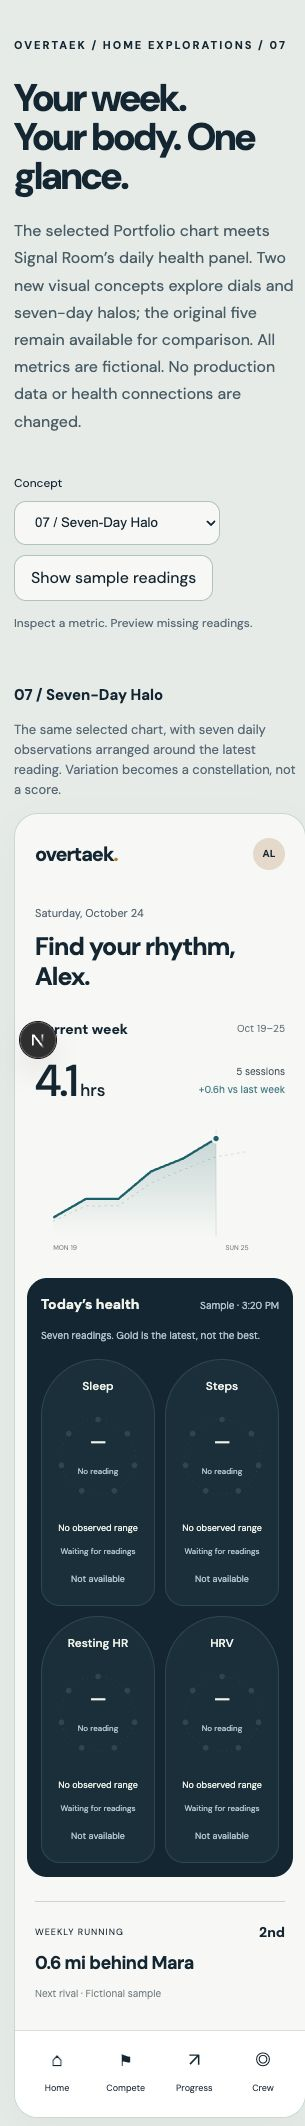
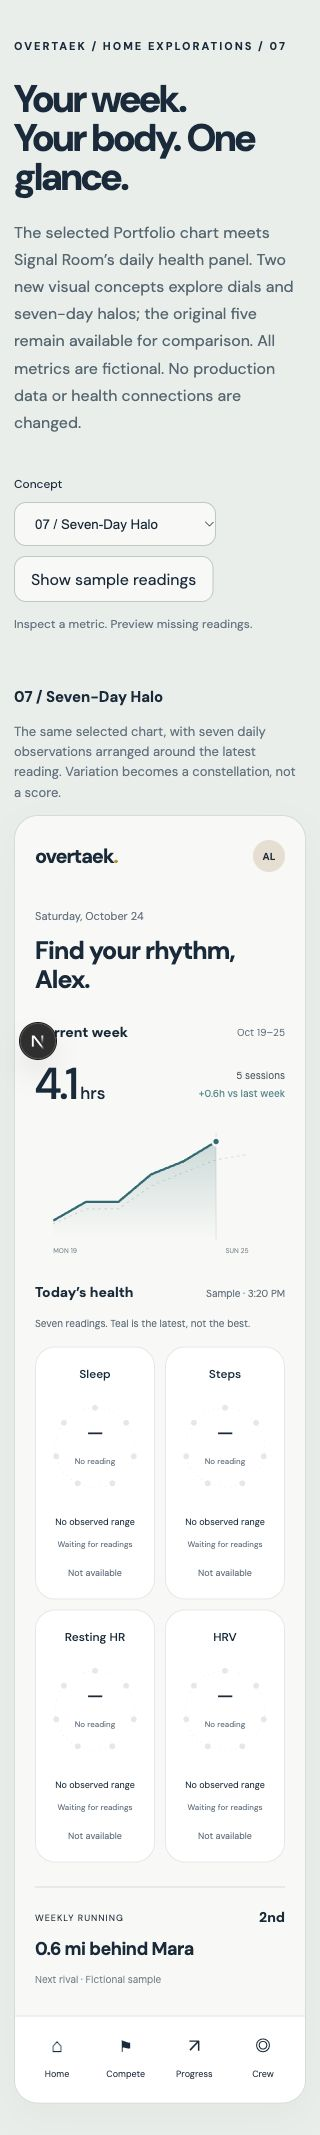
Retheme health concepts to match the light Home palette

diff --git a/apps/web/src/app/design/home-health/study.css b/apps/web/src/app/design/home-health/study.css
@@ -1,26 +1,28 @@
-.health-study{--study-ink:#142b3b;--study-paper:#f8f9f6;--study-accent:#176c75;color:var(--study-ink);background:#e9eeeb;min-height:100dvh;padding:64px 28px;font-family:var(--font-body),sans-serif}.health-study *{box-sizing:border-box}.health-study-intro{max-width:780px;margin:0 auto 36px}.study-eyebrow{font-size:11px;letter-spacing:2px;font-weight:700}.health-study h1{font-size:clamp(38px,5vw,70px);line-height:1.02;letter-spacing:-3px;margin:22px 0}.health-study-intro p{max-width:600px;line-height:1.7;color:#536872}.health-study-controls{display:flex;align-items:end;gap:16px;flex-wrap:wrap;max-width:1280px;margin:0 auto 36px}.health-study-controls label{display:grid;gap:6px;font-size:12px}.health-study-controls select,.health-study-controls button{min-height:44px;padding:10px 16px;border:1px solid #b9c9c4;background:#f8f9f6;border-radius:12px;color:#142b3b}.health-study-controls>span{font-size:12px;padding-bottom:12px;color:#637482}.health-study button:focus-visible,.health-study select:focus-visible{outline:3px solid #c18f1f;outline-offset:3px}.health-study-grid{display:grid;grid-template-columns:repeat(auto-fit,minmax(320px,1fr));gap:32px;max-width:1280px;margin:auto}.health-study-grid.focused{max-width:410px}.concept-caption{min-height:100px}.concept-caption>span{font-size:15px;font-weight:700}.concept-caption p{font-size:13px;line-height:1.55;color:#637482;max-width:360px}.concept-phone{max-width:410px;margin:auto;position:relative;overflow:hidden;border-radius:32px;border:1px solid #d1dcd7;background:var(--study-paper);box-shadow:0 15px 40px #16392b0a;padding:24px 20px 0;min-height:820px}.health-shell{display:flex;justify-content:space-between;align-items:center;font-size:20px;font-weight:700;letter-spacing:-1px}.brand-dot{color:#c18f1f}.sample-avatar{font-size:10px;letter-spacing:0;border-radius:50%;width:32px;height:32px;display:grid;place-items:center;background:#e8ded0;color:#142b3b}.health-greeting{margin:30px 0 26px}.health-greeting>span{font-size:11px;color:#637482}.health-greeting h2{font-size:25px;line-height:1.18;letter-spacing:-.8px;max-width:230px;margin:7px 0}.training-title,.vitals-title{display:flex;justify-content:space-between;align-items:center;gap:8px}.training-title h3,.vitals-title h3{font-size:14px;margin:0}.training-title>span,.vitals-title>span{font-size:10px;opacity:.65}.training-total{display:flex;align-items:center;justify-content:space-between;gap:8px;margin:18px 0 8px}.training-total>strong{font-size:44px;font-weight:500;letter-spacing:-2px;line-height:1}.training-total>strong>span{font-size:17px;letter-spacing:0}.training-total>span{text-align:right;font-size:10px;line-height:1.8;opacity:.8}.training-total b{font-weight:500;color:var(--study-accent)}.health-training>svg{display:block;width:100%;height:auto;margin:12px 0 0;overflow:visible}.svg-caption{font-family:var(--font-body),sans-serif;fill:currentColor;font-size:9px;opacity:.6}.health-day-picker{display:flex;justify-content:space-between;margin-top:10px;gap:2px}.health-day-picker button{height:44px;min-width:30px;border:0;background:transparent;border-radius:20px;color:inherit;font-size:10px}.health-day-picker button[aria-pressed=true]{background:var(--study-accent);color:white}.training-receipt{font-size:10px;opacity:.7;text-align:center;min-height:22px;margin:6px 0 0}.health-vitals{margin:26px 0 20px}.health-metrics{display:grid;gap:12px;margin-top:15px}.health-metric{font-family:inherit;text-align:left;color:inherit;border:0;background:transparent;cursor:pointer;position:relative;min-height:58px;display:grid;grid-template-columns:20px 1fr auto;align-items:center;gap:0 8px;padding:10px 0;border-bottom:1px solid #dce4df}.metric-symbol{grid-row:span 2;font-size:21px;color:var(--study-accent)}.metric-name{font-size:12px;font-weight:500}.health-metric strong{font-size:20px;font-weight:500;letter-spacing:-.5px;grid-column:3;grid-row:1}.metric-unit{font-size:9px;opacity:.65;grid-column:2/-1}.health-detail{font-size:12px;background:#e8eeea;padding:14px;border-radius:12px;margin:12px 0;line-height:1.5}.health-detail p{margin:6px 0}.health-detail>span{font-size:10px;opacity:.7}.health-rival{padding:18px 0 24px;border-top:1px solid #d0dad7;display:grid;gap:7px;margin-top:24px}.health-rival>span{font-size:9px;letter-spacing:1px}.health-rival b{float:right;font-size:14px;letter-spacing:0}.health-rival strong{font-size:18px;letter-spacing:-.5px}.health-rival small{font-size:10px;opacity:.6}.health-tabs{display:flex;justify-content:space-between;margin:0 -20px;padding:17px 22px;background:#fff;border-top:1px solid #dce4df;text-align:center}.health-tabs>b,.health-tabs>span{display:grid;gap:4px;font-size:18px;min-width:40px}.health-tabs span span,.health-tabs b span,.health-tabs small{font-size:9px;font-weight:400}.orbit{--study-accent:#9b7737;--study-paper:#fbf9f3}.orbit .health-greeting{text-align:center}.orbit .health-greeting h2{max-width:none}.orbit .training-total{display:none}.orbit .health-metrics{grid-template-columns:1fr 1fr;gap:18px}.orbit .health-metric{display:flex;flex-direction:column;text-align:center;gap:6px;border:0;padding:18px 5px;min-height:122px;background:#f1ede3;border-radius:60% 60% 40% 40%}.orbit .metric-symbol{font-size:22px}.orbit .health-metric strong{font-size:24px}.orbit-value{font-size:52px;fill:currentColor;letter-spacing:-2px}.orbit .metric-orbit{width:20px;height:2px;background:#c4ac79;border-radius:1px;margin-top:3px}.ledger{--study-accent:#c99227;--study-paper:#fff}.ledger .concept-phone{border-radius:4px}.ledger .health-greeting h2{font-size:34px;letter-spacing:-1.5px}.ledger .training-title{border-bottom:2px solid #142b3b;padding-bottom:12px}.ledger .health-metrics{gap:0}.ledger .health-metric{grid-template-columns:1fr 1fr;min-height:50px}.ledger .metric-symbol{display:none}.ledger .health-metric strong{grid-column:2;text-align:right}.ledger .metric-unit{grid-column:1/-1}.ledger .health-training{border-bottom:1px solid #142b3b;padding-bottom:12px}.pulse{--study-accent:#f7c948;--study-paper:#142b3b}.pulse .concept-phone{color:#f0f4ec;border-color:#234453}.pulse .health-greeting>span{color:#9ab0b9}.pulse .health-metrics{grid-template-columns:1fr 1fr;gap:10px}.pulse .health-metric{padding:14px;display:flex;align-items:start;flex-direction:column;gap:7px;min-height:128px;border:1px solid #31505a;background:#1b3644;border-radius:12px}.pulse .metric-symbol{position:absolute;right:12px;top:12px;font-size:17px}.pulse .health-metric strong{font-size:27px}.pulse .health-metric svg{width:60px;height:28px;position:absolute;right:10px;bottom:14px;opacity:.6}.pulse .health-detail{background:#24414c}.pulse .health-tabs{background:#142b3b;border-color:#31505a}.pulse .health-rival{border-color:#31505a}.pulse .health-day-picker button[aria-pressed=true]{color:#142b3b}.signal-grid{display:flex;gap:8px;margin:26px 0 18px}.signal-grid>div{display:grid;flex:1;gap:7px;grid-template-rows:15px repeat(3,21px)}.signal-grid b{text-align:center;font-size:9px;font-weight:400;opacity:.7}.signal-grid span:not(.signal-axis span){background:#24414c;border-radius:4px}.signal-grid span.lit{background:#f7c948!important}.signal-grid>.signal-axis{flex:0 0 20px;font-size:8px;align-items:center;grid-template-rows:15px repeat(3,21px)}.signal-axis:before{content:""}.tempo{--study-accent:#176c75;--study-paper:#f0f5f2}.tempo .health-greeting h2{font-size:30px;max-width:190px}.tempo-week{display:flex;gap:4px;margin-top:24px}.tempo-week>div{flex:1;text-align:center;font-size:9px;padding:10px 2px;background:#e5ede7;border-radius:20px}.tempo-week>div.selected{background:#d3e5d9}.tempo-week b{display:block;font-size:17px;margin-top:4px}.tempo-track{height:125px;position:relative;border-left:1px solid #142b3b15;margin:12px 0 8px}.tempo-track i{position:absolute;left:25%;width:55%;border-radius:10px;background:#176c75}.tempo-week small{font-size:8px;opacity:.7}.tempo .health-metrics{grid-template-columns:repeat(4,1fr);gap:0;background:#fff;border-radius:16px;padding:15px 5px}.tempo .health-metric{display:flex;flex-direction:column;align-items:center;text-align:center;padding:0 2px;border:0;border-right:1px solid #e3e9e7;gap:8px;min-height:90px}.tempo .health-metric:last-child{border:0}.tempo .health-metric strong{font-size:17px;letter-spacing:-.6px}.tempo .metric-name{font-size:9px}.tempo .metric-unit{font-size:8px}.tempo .metric-symbol{font-size:19px}.tempo .health-rival{background:#176c75;color:white;margin:18px -20px 0;padding:22px 20px}.tempo .health-tabs{margin-top:0}@media(max-width:500px){.health-study{padding:32px 14px}.health-study h1{letter-spacing:-1.5px}.health-study-grid{grid-template-columns:minmax(0,1fr)}.concept-caption{min-height:90px}.concept-phone{border-radius:24px}.health-study-controls{gap:10px}.health-study-controls>span{width:100%}.health-metric{min-height:64px}}@media(prefers-reduced-motion:reduce){.health-study *{scroll-behavior:auto!important}}
+.health-study{--study-ink:#142b3b;--study-paper:#f8f9f6;--study-accent:#176c75;color:var(--study-ink);background:#e9eeeb;min-height:100dvh;padding:64px 28px;font-family:var(--font-body),sans-serif}.health-study *{box-sizing:border-box}.health-study-intro{max-width:780px;margin:0 auto 36px}.study-eyebrow{font-size:11px;letter-spacing:2px;font-weight:700}.health-study h1{font-size:clamp(38px,5vw,70px);line-height:1.02;letter-spacing:-3px;margin:22px 0}.health-study-intro p{max-width:600px;line-height:1.7;color:#536872}.health-study-controls{display:flex;align-items:end;gap:16px;flex-wrap:wrap;max-width:1280px;margin:0 auto 36px}.health-study-controls label{display:grid;gap:6px;font-size:12px}.health-study-controls select,.health-study-controls button{min-height:44px;padding:10px 16px;border:1px solid #b9c9c4;background:#f8f9f6;border-radius:12px;color:#142b3b}.health-study-controls>span{font-size:12px;padding-bottom:12px;color:#637482}.health-study button:focus-visible,.health-study select:focus-visible{outline:3px solid #c18f1f;outline-offset:3px}.health-study-grid{display:grid;grid-template-columns:repeat(auto-fit,minmax(320px,1fr));gap:32px;max-width:1280px;margin:auto}.health-study-grid.focused{max-width:410px}.concept-caption{min-height:100px}.concept-caption>span{font-size:15px;font-weight:700}.concept-caption p{font-size:13px;line-height:1.55;color:#637482;max-width:360px}.concept-phone{max-width:410px;margin:auto;position:relative;overflow:hidden;border-radius:32px;border:1px solid #d1dcd7;background:var(--study-paper);box-shadow:0 15px 40px #16392b0a;padding:24px 20px 0;min-height:820px}.health-shell{display:flex;justify-content:space-between;align-items:center;font-size:20px;font-weight:700;letter-spacing:-1px}.brand-dot{color:#c18f1f}.sample-avatar{font-size:10px;letter-spacing:0;border-radius:50%;width:32px;height:32px;display:grid;place-items:center;background:#e8ded0;color:#142b3b}.health-greeting{margin:30px 0 26px}.health-greeting>span{font-size:11px;color:#637482}.health-greeting h2{font-size:25px;line-height:1.18;letter-spacing:-.8px;max-width:230px;margin:7px 0}.training-title,.vitals-title{display:flex;justify-content:space-between;align-items:center;gap:8px}.training-title h3,.vitals-title h3{font-size:14px;margin:0}.training-title>span,.vitals-title>span{font-size:10px;opacity:.65}.training-total{display:flex;align-items:center;justify-content:space-between;gap:8px;margin:18px 0 8px}.training-total>strong{font-size:44px;font-weight:500;letter-spacing:-2px;line-height:1}.training-total>strong>span{font-size:17px;letter-spacing:0}.training-total>span{text-align:right;font-size:10px;line-height:1.8;opacity:.8}.training-total b{font-weight:500;color:var(--study-accent)}.health-training>svg{display:block;width:100%;height:auto;margin:12px 0 0;overflow:visible}.svg-caption{font-family:var(--font-body),sans-serif;fill:currentColor;font-size:9px;opacity:.6}.health-day-picker{display:flex;justify-content:space-between;margin-top:10px;gap:2px}.health-day-picker button{height:44px;min-width:30px;border:0;background:transparent;border-radius:20px;color:inherit;font-size:10px}.health-day-picker button[aria-pressed=true]{background:var(--study-accent);color:white}.training-receipt{font-size:10px;opacity:.7;text-align:center;min-height:22px;margin:6px 0 0}.health-vitals{margin:26px 0 20px}.health-metrics{display:grid;gap:12px;margin-top:15px}.health-metric{font-family:inherit;text-align:left;color:inherit;border:0;background:transparent;cursor:pointer;position:relative;min-height:58px;display:grid;grid-template-columns:20px 1fr auto;align-items:center;gap:0 8px;padding:10px 0;border-bottom:1px solid #dce4df}.metric-symbol{grid-row:span 2;font-size:21px;color:var(--study-accent)}.metric-name{font-size:12px;font-weight:500}.health-metric strong{font-size:20px;font-weight:500;letter-spacing:-.5px;grid-column:3;grid-row:1}.metric-unit{font-size:9px;opacity:.65;grid-column:2/-1}.health-detail{font-size:12px;background:#e8eeea;padding:14px;border-radius:12px;margin:12px 0;line-height:1.5}.health-detail p{margin:6px 0}.health-detail>span{font-size:10px;opacity:.7}.health-rival{padding:18px 0 24px;border-top:1px solid #d0dad7;display:grid;gap:7px;margin-top:24px}.health-rival>span{font-size:9px;letter-spacing:1px}.health-rival b{float:right;font-size:14px;letter-spacing:0}.health-rival strong{font-size:18px;letter-spacing:-.5px}.health-rival small{font-size:10px;opacity:.6}.health-tabs{display:flex;justify-content:space-between;margin:0 -20px;padding:17px 22px;background:#fff;border-top:1px solid #dce4df;text-align:center}.health-tabs>b,.health-tabs>span{display:grid;gap:4px;font-size:18px;min-width:40px}.health-tabs span span,.health-tabs b span,.health-tabs small{font-size:9px;font-weight:400}.orbit{--study-accent:#9b7737;--study-paper:#fbf9f3}.orbit .health-greeting{text-align:center}.orbit .health-greeting h2{max-width:none}.orbit .training-total{display:none}.orbit .health-metrics{grid-template-columns:1fr 1fr;gap:18px}.orbit .health-metric{display:flex;flex-direction:column;text-align:center;gap:6px;border:0;padding:18px 5px;min-height:122px;background:#f1ede3;border-radius:60% 60% 40% 40%}.orbit .metric-symbol{font-size:22px}.orbit .health-metric strong{font-size:24px}.orbit-value{font-size:52px;fill:currentColor;letter-spacing:-2px}.orbit .metric-orbit{width:20px;height:2px;background:#c4ac79;border-radius:1px;margin-top:3px}.ledger{--study-accent:#c99227;--study-paper:#fff}.ledger .concept-phone{border-radius:4px}.ledger .health-greeting h2{font-size:34px;letter-spacing:-1.5px}.ledger .training-title{border-bottom:2px solid #142b3b;padding-bottom:12px}.ledger .health-metrics{gap:0}.ledger .health-metric{grid-template-columns:1fr 1fr;min-height:50px}.ledger .metric-symbol{display:none}.ledger .health-metric strong{grid-column:2;text-align:right}.ledger .metric-unit{grid-column:1/-1}.ledger .health-training{border-bottom:1px solid #142b3b;padding-bottom:12px}.pulse{--study-accent:var(--signal-accent);--study-paper:var(--signal-background)}.pulse .concept-phone{color:var(--signal-text);border-color:var(--signal-border)}.pulse .health-greeting>span{color:var(--signal-secondary)}.pulse .health-metrics{grid-template-columns:1fr 1fr;gap:10px}.pulse .health-metric{padding:14px;display:flex;align-items:start;flex-direction:column;gap:7px;min-height:128px;border:1px solid var(--signal-border);background:var(--signal-tile);border-radius:12px}.pulse .metric-symbol{position:absolute;right:12px;top:12px;font-size:17px}.pulse .health-metric strong{font-size:27px}.pulse .health-metric svg{width:60px;height:28px;position:absolute;right:10px;bottom:14px;opacity:.6}.pulse .health-detail{background:var(--signal-tile)}.pulse .health-tabs{background:var(--signal-tile);border-color:var(--signal-border)}.pulse .health-rival{border-color:var(--signal-border)}.pulse .health-day-picker button[aria-pressed=true]{color:white}.signal-grid{display:flex;gap:8px;margin:26px 0 18px}.signal-grid>div{display:grid;flex:1;gap:7px;grid-template-rows:15px repeat(3,21px)}.signal-grid b{text-align:center;font-size:9px;font-weight:400;opacity:.7}.signal-grid span:not(.signal-axis span){background:var(--signal-border);border-radius:4px}.signal-grid span.lit{background:var(--signal-accent)!important}.signal-grid>.signal-axis{flex:0 0 20px;font-size:8px;align-items:center;grid-template-rows:15px repeat(3,21px)}.signal-axis:before{content:""}.tempo{--study-accent:#176c75;--study-paper:#f0f5f2}.tempo .health-greeting h2{font-size:30px;max-width:190px}.tempo-week{display:flex;gap:4px;margin-top:24px}.tempo-week>div{flex:1;text-align:center;font-size:9px;padding:10px 2px;background:#e5ede7;border-radius:20px}.tempo-week>div.selected{background:#d3e5d9}.tempo-week b{display:block;font-size:17px;margin-top:4px}.tempo-track{height:125px;position:relative;border-left:1px solid #142b3b15;margin:12px 0 8px}.tempo-track i{position:absolute;left:25%;width:55%;border-radius:10px;background:#176c75}.tempo-week small{font-size:8px;opacity:.7}.tempo .health-metrics{grid-template-columns:repeat(4,1fr);gap:0;background:#fff;border-radius:16px;padding:15px 5px}.tempo .health-metric{display:flex;flex-direction:column;align-items:center;text-align:center;padding:0 2px;border:0;border-right:1px solid #e3e9e7;gap:8px;min-height:90px}.tempo .health-metric:last-child{border:0}.tempo .health-metric strong{font-size:17px;letter-spacing:-.6px}.tempo .metric-name{font-size:9px}.tempo .metric-unit{font-size:8px}.tempo .metric-symbol{font-size:19px}.tempo .health-rival{background:#176c75;color:white;margin:18px -20px 0;padding:22px 20px}.tempo .health-tabs{margin-top:0}@media(max-width:500px){.health-study{padding:32px 14px}.health-study h1{letter-spacing:-1.5px}.health-study-grid{grid-template-columns:minmax(0,1fr)}.concept-caption{min-height:90px}.concept-phone{border-radius:24px}.health-study-controls{gap:10px}.health-study-controls>span{width:100%}.health-metric{min-height:64px}}@media(prefers-reduced-motion:reduce){.health-study *{scroll-behavior:auto!important}}
 
 /* Round 2: the selected Portfolio chart with two new Signal Room visual languages. */
-.dials .health-vitals,.halos .health-vitals{background:#142b3b;color:#f0f4ec;border-radius:20px;padding:18px;margin-left:-8px;margin-right:-8px}
+.dials .health-vitals,.halos .health-vitals{background:var(--signal-background);color:var(--signal-text);padding:0}
 .dials .vitals-title,.halos .vitals-title{align-items:baseline;flex-wrap:wrap}
-.dials .vitals-title>span,.halos .vitals-title>span{color:#b7cbd2;opacity:1}
-.signal-concept-note{font-size:10px;line-height:1.6;color:#b7cbd2;margin:10px 0 0}
+.dials .vitals-title>span,.halos .vitals-title>span{color:var(--signal-secondary);opacity:1}
+.signal-concept-note{font-size:10px;line-height:1.6;color:var(--signal-secondary);margin:10px 0 0}
 .dials .health-metrics,.halos .health-metrics{grid-template-columns:repeat(2,minmax(0,1fr));gap:10px}
-.dials .health-metric,.halos .health-metric{display:flex;flex-direction:column;align-items:center;min-width:0;border:1px solid #31505a;border-radius:14px;background:#1b3644;padding:14px 6px;gap:5px;text-align:center}
-.dials .health-metric[aria-expanded=true],.halos .health-metric[aria-expanded=true]{border-color:#f7c948}
+.dials .health-metric,.halos .health-metric{display:flex;flex-direction:column;align-items:center;min-width:0;border:1px solid var(--signal-border);border-radius:20px;background:var(--signal-tile);padding:14px 6px;gap:5px;text-align:center}
+.dials .health-metric[aria-expanded=true],.halos .health-metric[aria-expanded=true]{border-color:var(--signal-accent)}
 .dials .metric-symbol,.halos .metric-symbol{display:none}
-.dials .metric-name,.halos .metric-name{font-size:12px;color:#f0f4ec}
-.dials .metric-unit,.halos .metric-unit{font-size:9px;color:#b7cbd2;opacity:1;margin-top:5px}
+.dials .metric-name,.halos .metric-name{font-size:12px;color:var(--signal-text)}
+.dials .metric-unit,.halos .metric-unit{font-size:9px;color:var(--signal-secondary);opacity:1;margin-top:5px}
 .signal-visual{position:relative;width:100%;max-width:144px;aspect-ratio:1;margin:4px 0}
 .signal-visual>svg{display:block;width:100%;height:auto}
 .signal-visual-center{position:absolute;inset:0;display:flex;flex-direction:column;justify-content:center;align-items:center;gap:5px}
 .signal-visual-center>strong{font-size:21px;letter-spacing:-.6px;font-weight:500;line-height:1.2}
-.signal-visual-center>small{font-size:8px;color:#b7cbd2}
-.signal-range{font-size:10px;color:#f0f4ec}
-.signal-method{font-size:8px;line-height:1.5;color:#b7cbd2}
-.dials .health-detail,.halos .health-detail{background:#24414c}
+.signal-visual-center>small{font-size:8px;color:var(--signal-secondary)}
+.signal-range{font-size:10px;color:var(--signal-text)}
+.signal-method{font-size:8px;line-height:1.5;color:var(--signal-secondary)}
+.dials .health-detail,.halos .health-detail{background:var(--signal-tile)}
 .signal-reading-list{display:grid;gap:6px;font-size:10px;padding-top:8px}
-.signal-reading-list>div{display:flex;justify-content:space-between;gap:12px;border-bottom:1px solid #31505a;padding-bottom:5px}
+.signal-reading-list>div{display:flex;justify-content:space-between;gap:12px;border-bottom:1px solid var(--signal-border);padding-bottom:5px}
 .signal-reading-list dd{margin:0;font-variant-numeric:tabular-nums}
-.halos .health-metric{border-radius:60px 60px 20px 20px}
-@media(max-width:360px){.dials .health-vitals,.halos .health-vitals{padding:14px}.signal-visual-center>strong{font-size:19px}.signal-range{font-size:9px}}
+@media(max-width:360px){.dials .health-vitals,.halos .health-vitals{padding:0}.signal-visual-center>strong{font-size:19px}.signal-range{font-size:9px}}
+
+/* Light theme shared with production Home: chart and metrics use the same tokens. */
+.dials,.halos{--study-accent:var(--signal-accent);--study-paper:var(--signal-background)}

diff --git a/apps/web/src/app/design/home-health/study.tsx b/apps/web/src/app/design/home-health/study.tsx
@@ -1,13 +1,16 @@
 "use client";
-import { useState } from "react";
+import { useState, type CSSProperties } from "react";
+import { HOME_HEALTH_COLORS as colors } from "@fitness-battle/shared";
 import "./study.css";
 import { SignalVisual, SignalVisualDetail } from "./signal-visuals";
+
+const signalPalette = Object.fromEntries(Object.entries(colors).map(([key, value]) => [`--signal-${key}`, value])) as CSSProperties;
 
 const concepts = [
   { id: "portfolio", name: "01 / The Portfolio", idea: "One confident number. A quiet cumulative line. Daily health reads like a watchlist.", chart: "Cumulative training hours" },
   { id: "orbit", name: "02 / Daily Orbit", idea: "A weekly arc becomes an anchor. Four daily signals stay in its orbit.", chart: "Weekly training composition" },
   { id: "ledger", name: "03 / The Ledger", idea: "An editorial weekly receipt. Individual sessions and crisp daily numbers, without a dashboard of boxes.", chart: "Daily training hours" },
-  { id: "pulse", name: "04 / Signal Room", idea: "A dark instrument panel. A week of activity cells sits above four small daily signal charts.", chart: "Weekly activity time grid" },
+  { id: "pulse", name: "04 / Signal Room", idea: "A light instrument panel. A week of activity cells sits above four small daily signal charts.", chart: "Weekly activity time grid" },
   { id: "tempo", name: "05 / Tempo", idea: "A spacious calendar ribbon. The rhythm of your week leads into a compact daily health strip.", chart: "Daily training timeline" },
   { id: "dials", name: "06 / Signal Dials", idea: "Portfolio above, Signal Room below. A quiet dial places each daily reading within its observed seven-day range.", chart: "Cumulative training hours" },
   { id: "halos", name: "07 / Seven-Day Halo", idea: "The same selected chart, with seven daily observations arranged around the latest reading. Variation becomes a constellation, not a score.", chart: "Cumulative training hours" },
@@ -69,10 +72,10 @@ function Concept({ concept, unavailable }: { concept: typeof concepts[number]; u
       </section>
       <section className="health-vitals" aria-label="Today's core health metrics">
         <div className="vitals-title"><h3>Today’s health</h3><span>Sample · 3:20 PM</span></div>
-        {visual && <p className="signal-concept-note">{visual === "dials" ? "Your observed range. No targets or scores." : "Seven readings. Gold is the latest, not the best."}</p>}
+        {visual && <p className="signal-concept-note">{visual === "dials" ? "Your observed range. No targets or scores." : "Seven readings. Teal is the latest, not the best."}</p>}
         <div className="health-metrics">{metrics.map((metric,i)=><button key={metric.name} className="health-metric" aria-expanded={detail===metric.name} onClick={()=>setDetail(detail===metric.name?null:metric.name)}>
           <span className="metric-symbol" aria-hidden="true">{metric.icon}</span><span className="metric-name">{metric.name}</span>{visual ? <SignalVisual kind={visual} index={i} unavailable={unavailable}/> : <strong>{unavailable?"—":metric.value}</strong>}<span className="metric-unit">{unavailable?"Not available":metric.unit}</span>
-          {concept.id==="pulse"&&<svg viewBox="0 0 60 32" aria-hidden="true"><polyline points={unavailable?"0,16 60,16":metric.points} fill="none" stroke={i%2?"#b6cfb5":"#f7c948"} strokeWidth="2"/></svg>}
+          {concept.id==="pulse"&&<svg viewBox="0 0 60 32" aria-hidden="true"><polyline points={unavailable?"0,16 60,16":metric.points} fill="none" stroke={i%2?colors.comparison:colors.accent} strokeWidth="2"/></svg>}
           {concept.id==="orbit"&&<span className="metric-orbit" aria-hidden="true"/>}
         </button>)}</div>
         {detail&&<div className="health-detail" role="status"><b>{detail}</b>{visual ? <SignalVisualDetail kind={visual} index={metrics.findIndex(m=>m.name===detail)} unavailable={unavailable}/> : <p>{unavailable?"No reading is available. A production design would show the source and last successful reading, without substituting a score or zero.":metrics.find(m=>m.name===detail)?.note}</p>}<span>Illustrative data · No live connection</span></div>}
@@ -85,7 +88,7 @@ function Concept({ concept, unavailable }: { concept: typeof concepts[number]; u
 export function HomeHealthStudy() {
   const [selected,setSelected]=useState("new");
   const [unavailable,setUnavailable]=useState(false);
-  return <main className="health-study">
+  return <main className="health-study" style={signalPalette}>
     <div className="health-study-intro"><span className="study-eyebrow">OVERTAEK / HOME EXPLORATIONS / 07</span><h1>Your week.<br/>Your body. One glance.</h1><p>The selected Portfolio chart meets Signal Room’s daily health panel. Two new visual concepts explore dials and seven-day halos; the original five remain available for comparison. All metrics are fictional. No production data or health connections are changed.</p></div>
     <div className="health-study-controls"><label>Concept<select value={selected} onChange={e=>setSelected(e.target.value)}><option value="new">Compare two new visuals</option><option value="all">Compare all seven</option>{concepts.map(c=><option key={c.id} value={c.id}>{c.name}</option>)}</select></label><button aria-pressed={unavailable} onClick={()=>setUnavailable(!unavailable)}>{unavailable?"Show sample readings":"Preview missing readings"}</button><span>Inspect a metric. Preview missing readings.</span></div>
     <div className={`health-study-grid ${selected!=="all"&&selected!=="new"?"focused":""}`}>{concepts.filter(c=>selected==="all"||(selected==="new"&&(c.id==="dials"||c.id==="halos"))||selected===c.id).map(c=><Concept key={c.id} concept={c} unavailable={unavailable}/>)}</div>

diff --git a/apps/web/src/app/design/home-health/signal-visuals.tsx b/apps/web/src/app/design/home-health/signal-visuals.tsx
@@ -1,3 +1,5 @@
+import { HOME_HEALTH_COLORS as colors } from "@fitness-battle/shared";
+
 /** Fictional, isolated design-study readings. These never enter production state. */
 const series = [
   { values: [414, 456, 438, 462, 450, 480, 462], unit: "minutes", range: "6h 54m–8h", value: "7h 42m" },
@@ -23,18 +25,18 @@ export function SignalVisual({ kind, index, unavailable }: { kind: "dials" | "ha
     <div className="signal-visual">
       <svg viewBox="0 0 144 144" aria-hidden="true">
         {kind === "dials" ? <>
-          <path d={arc(135, 405)} fill="none" stroke="#31505a" strokeWidth="7" strokeLinecap="round"/>
+          <path d={arc(135, 405)} fill="none" stroke={colors.border} strokeWidth="7" strokeLinecap="round"/>
           {[0, .25, .5, .75, 1].map(position => {
             const outer = polar(135 + position * 270, 65), inner = polar(135 + position * 270, 61);
-            return <line key={position} x1={outer.x} y1={outer.y} x2={inner.x} y2={inner.y} stroke="#91a9b2" strokeWidth="1"/>;
+            return <line key={position} x1={outer.x} y1={outer.y} x2={inner.x} y2={inner.y} stroke={colors.comparison} strokeWidth="1"/>;
           })}
-          {!unavailable && <circle cx={marker.x} cy={marker.y} r="6" fill="#f7c948" stroke="#142b3b" strokeWidth="3"/>}
+          {!unavailable && <circle cx={marker.x} cy={marker.y} r="6" fill={colors.accent} stroke={colors.tile} strokeWidth="3"/>}
         </> : <>
-          <circle cx="72" cy="72" r="54" fill="none" stroke="#31505a" strokeDasharray="1 6"/>
+          <circle cx="72" cy="72" r="54" fill="none" stroke={colors.border} strokeDasharray="1 6"/>
           {metric.values.map((value, i) => {
             const point = polar(-90 + i * 360 / 7);
             return <circle key={i} cx={point.x} cy={point.y} r={unavailable ? 4 : 4 + (value - low) / Math.max(1, high - low) * 5}
-              fill={unavailable ? "#31505a" : i === 6 ? "#f7c948" : "#b6cfb5"} opacity={unavailable || i === 6 ? 1 : .65}/>;
+              fill={unavailable ? colors.border : i === 6 ? colors.accent : colors.comparison} opacity={unavailable || i === 6 ? 1 : .65}/>;
           })}
         </>}
       </svg>
@@ -49,8 +51,8 @@ export function SignalVisualDetail({ kind, index, unavailable }: { kind: "dials"
   const metric = series[index];
   return <>
     <p>{kind === "dials"
-      ? "The gold dot places the latest sample within this person's observed seven-day range. The unfilled dial is a range, not progress toward a target."
-      : "Seven dots run clockwise from the top, oldest to newest. Size represents the reading within this sample's observed range; gold marks the latest. It is a record of variation, not a score."}</p>
+      ? "The teal dot places the latest sample within this person's observed seven-day range. The unfilled dial is a range, not progress toward a target."
+      : "Seven dots run clockwise from the top, oldest to newest. Size represents the reading within this sample's observed range; teal marks the latest. It is a record of variation, not a score."}</p>
     <dl className="signal-reading-list">{metric.values.map((value, i) => <div key={i}><dt>{dates[i]}</dt><dd>{value.toLocaleString("en-US")} {metric.unit}</dd></div>)}</dl>
     <p>Fictional observations only. No medical reference range, readiness score or goal is implied.</p>
   </>;

diff --git a/docs/reviews/home-health-concepts/README.md b/docs/reviews/home-health-concepts/README.md
@@ -10,7 +10,7 @@ are fictional and labeled. No health-data integration or score is introduced.
    daily health as a compact watchlist beneath the chart.
 2. **Daily Orbit:** active-day arc, spacious center and four rounded daily signals.
 3. **Ledger:** editorial receipt, daily training bars and divided tabular metrics.
-4. **Signal Room:** dark time-of-day activity grid and four mini-chart instruments.
+4. **Signal Room:** light time-of-day activity grid and four mini-chart instruments.
 5. **Tempo:** calendar/session ribbon with a single horizontal daily-health strip.
 
 Compare all five or focus one. Select a day to inspect session/cumulative time;
@@ -38,14 +38,14 @@ The study now opens with two new alternatives; the original five remain availabl
 from the concept chooser and Compare all seven. Both new phones retain the quiet
 Portfolio chart and omit the weekday picker/receipt below it.
 
-6. **Signal Dials:** four open circular scales, each with a gold dot positioning
+6. **Signal Dials:** four open circular scales, each with a teal dot positioning
    the latest reading within its own observed seven-day min/max. The background
    arc stays unfilled, so this does not imply goal completion or a health score.
    Each observed range is printed beneath the dial.
 7. **Seven-Day Halo:** seven observations run clockwise around the latest value.
    Dot size encodes relative value within the displayed sample's range. The latest
-   dot is gold and the earlier dots are sage. It shows variation without a trend
-   line; gold means latest, not best.
+   dot is teal and the earlier dots use muted teal. It shows variation without a trend
+   line; teal means latest, not best.
 
 All observations remain fictional (October 18–24), with no live source or medical
 reference range. Expand any metric to inspect the seven exact values and the
@@ -55,8 +55,10 @@ review, with no production renderer, health integration or scoring changes.
 
 Round 2 validation: web typecheck/build; desktop comparison at 1280px and focused
 phone layouts at 390px/320px. Verified seven-day reading detail, missing-state
-labels with no gold/current markers, no horizontal overflow, all seven concepts
+labels with no current-reading markers, no horizontal overflow, all seven concepts
 accessible and no weekday picker in either new concept. Screenshots:
 `round-2-comparison.png`, `dials-phone.png`, `halos-phone.png`, and
 `halos-missing-320.png`. These remain coded responsive studies rather than native
 production components.
+
+Theme correction: Signal Dials, Seven-Day Halo and the original Signal Room now share production Home’s light canvas, white tiles, navy text and teal accents through HOME_HEALTH_COLORS. The chart and metrics are one light composition; their structures remain distinct alternatives.
